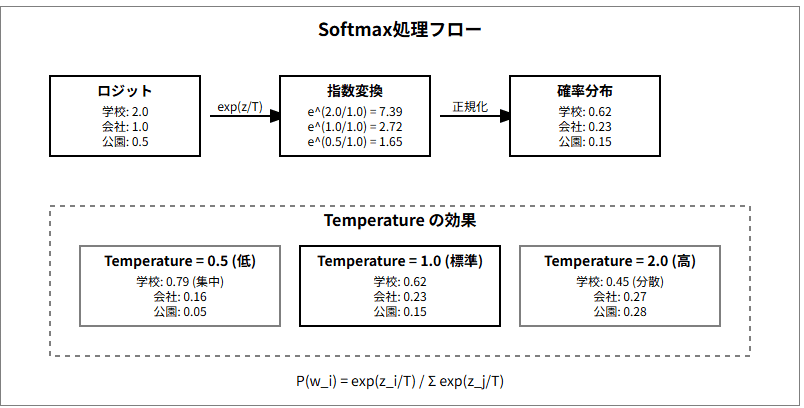
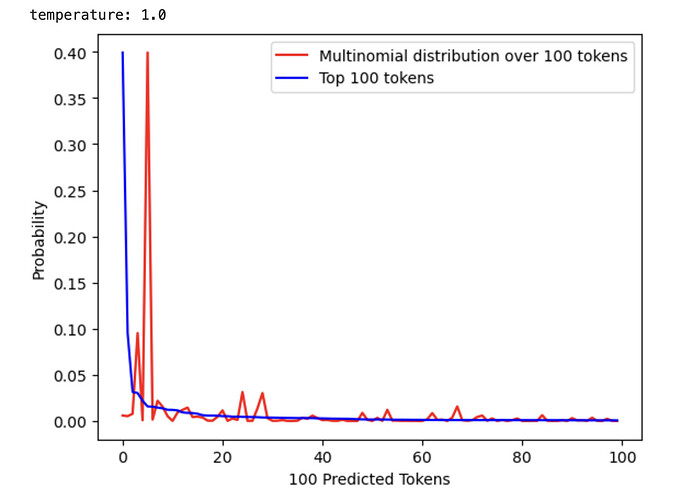
docs: 为02章三篇文章添加配图
- 01 模型对比：OpenAI API价格演变图
- 02 API调用：流式输出时序图
- 03 关键参数：Temperature概率分布图

diff --git a/docs/02-model-access/03-key-parameters.md b/docs/02-model-access/03-key-parameters.md
@@ -25,6 +25,13 @@
 取值范围通常是 `0.0` 到 `2.0`（有些模型上限是 1.0）。
 
 - **底层原理**：LLM 每次预测下一个词时，会计算出一个概率分布。Temperature 越低，模型越倾向于选择概率最高的那个词；Temperature 越高，模型越可能选择概率较低的词。
+
+<p align="center">
+  <img src="../../assets/02-model-access/temperature-distribution.png" alt="Temperature 对概率分布的影响" width="90%"/>
+  <br/>
+  <em>Temperature 对概率分布的影响</em>
+</p>
+
 - **`Temperature = 0.0`**：**绝对严谨**。模型几乎每次都会给出完全相同的回答。
   - **适用场景**：代码生成、数据提取（JSON 格式化）、数学计算、逻辑推理、RAG 问答。
   - **Agent 开发建议**：在 Agent 的核心决策循环（如判断下一步调用什么工具）中，**永远把 Temperature 设为 0**。

diff --git a/docs/02-model-access/01-model-comparison.md b/docs/02-model-access/01-model-comparison.md
@@ -54,6 +54,12 @@
 
 *以下为实际价格（每百万 Token，美元，数据来自 [LLM Stats](https://llm-stats.com/)）：*
 
+<p align="center">
+  <img src="../../assets/02-model-access/model-cost-comparison.png" alt="OpenAI API 价格演变" width="90%"/>
+  <br/>
+  <em>OpenAI API 价格演变（2023-2026）</em>
+</p>
+
 | 模型 | 输入价格 | 输出价格 | 速度 (tok/s) | 定位 |
 |------|---------|---------|-------------|------|
 | Claude Opus 4.8 | $5.00 | $25.00 | 53 | 旗舰全能 |

diff --git a/docs/02-model-access/02-api-calling.md b/docs/02-model-access/02-api-calling.md
@@ -67,6 +67,12 @@ print(response.choices[0].message.content)
 
 在 API 中，只需要加上 `stream=True`：
 
+<p align="center">
+  <img src="../../assets/02-model-access/api-streaming-flow.png" alt="流式输出时序图" width="90%"/>
+  <br/>
+  <em>流式输出（Streaming）完整时序</em>
+</p>
+
 ```python
 response = client.chat.completions.create(
     model="gpt-4o",